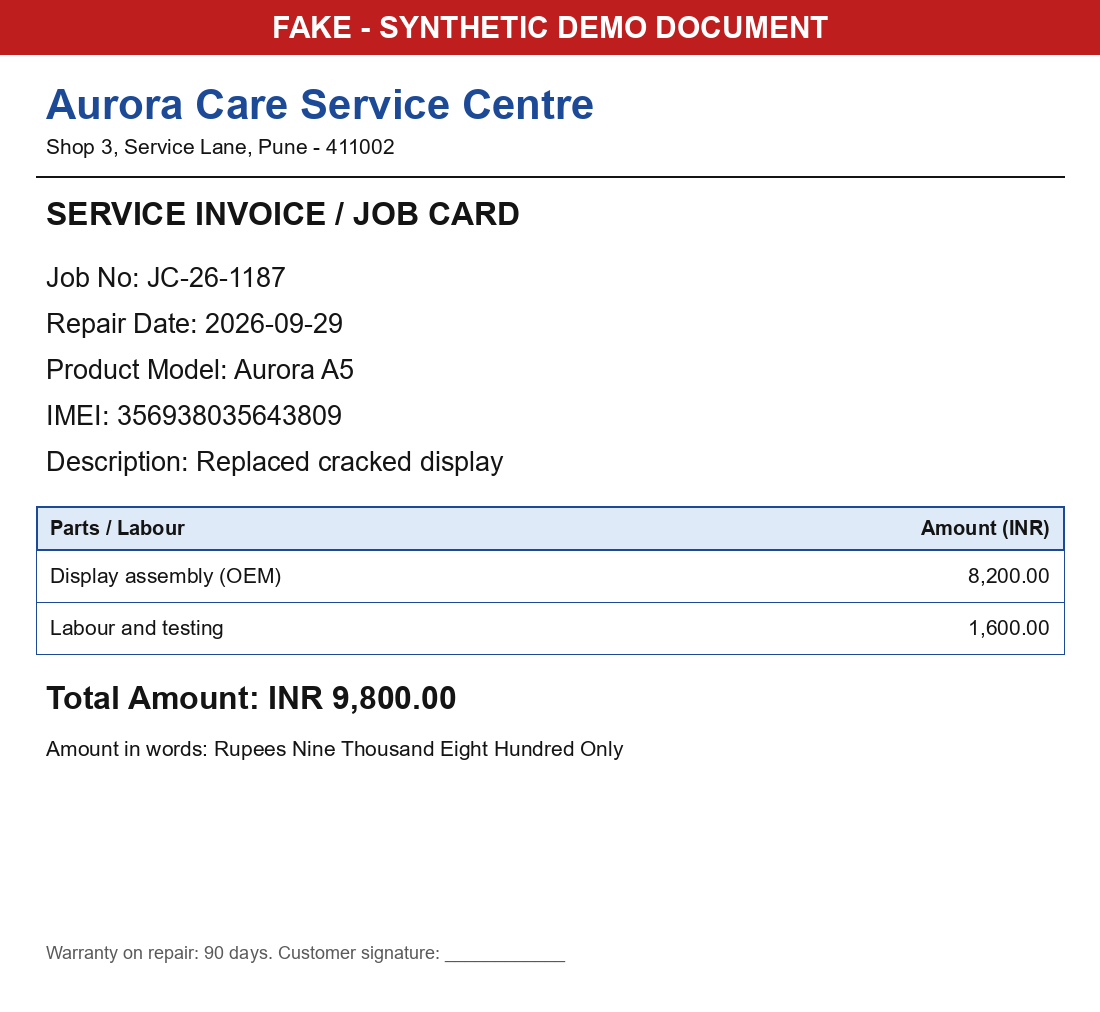
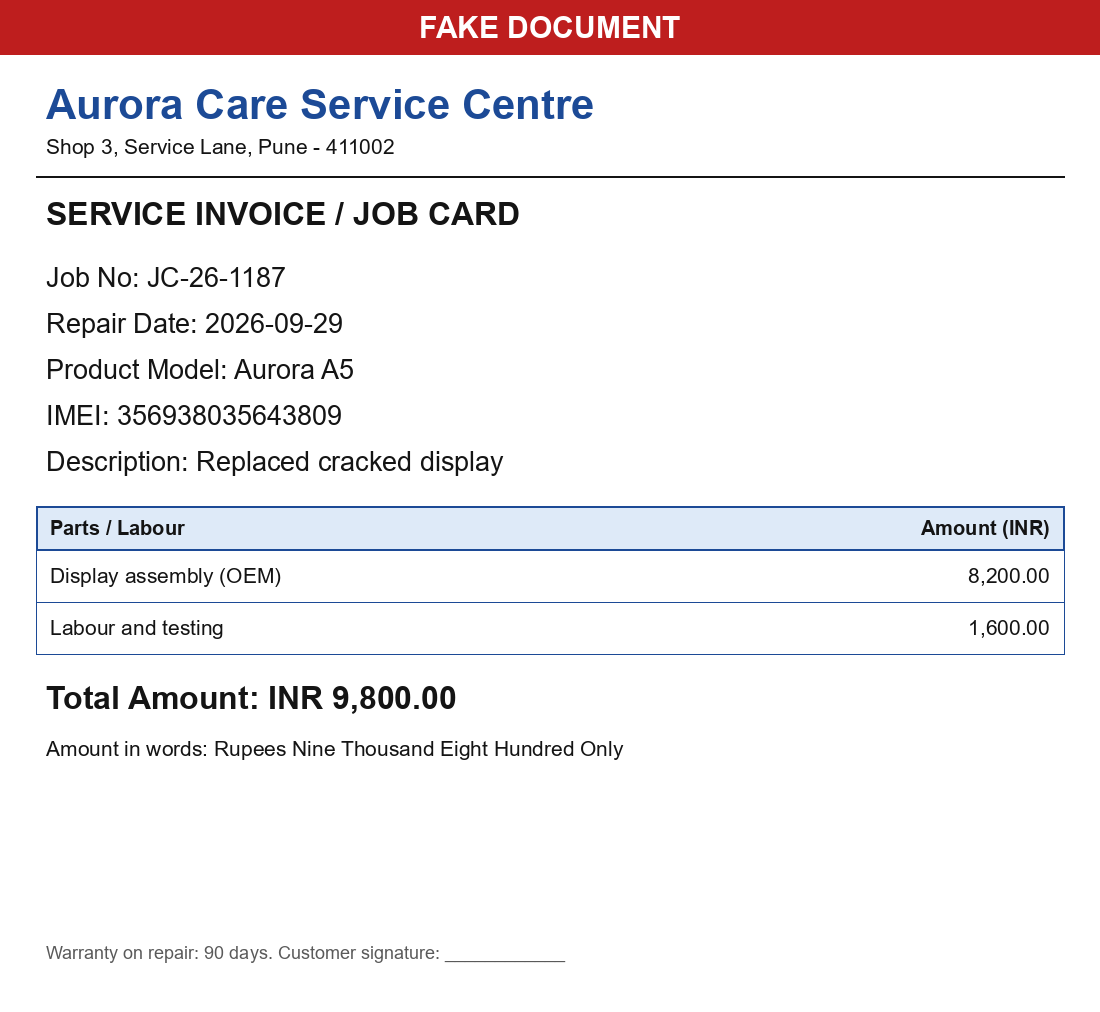
Remove demo/synthetic/sample wording from the product: UI, API text, claim numbers, generated documents

Changed region(s): [[0.2473, 0.0, 0.7418, 0.0613]]

diff --git a/frontend/src/pages/ClaimsQueue.tsx b/frontend/src/pages/ClaimsQueue.tsx
@@ -26,7 +26,6 @@ export default function ClaimsQueue() {
   const [group, setGroup] = useState('all')
   const [data, setData] = useState<Page | null>(null)
   const [err, setErr] = useState<string | null>(null)
-  const [busy, setBusy] = useState(false)
 
   const load = useCallback(async () => {
     setErr(null)
@@ -42,10 +41,6 @@ export default function ClaimsQueue() {
     (data?.items ?? []).filter((c) => g.id === 'all' || g.statuses.includes(c.status)).length])), [data])
   const rows = (data?.items ?? []).filter((c) => group === 'all' || GROUPS.find((g) => g.id === group)!.statuses.includes(c.status))
 
-  const seed = async () => {
-    setBusy(true)
-    try { await api.post('/demo/seed'); await load() } catch (e) { setErr((e as Error).message) } finally { setBusy(false) }
-  }
   const noClaimsAtAll = data && data.total === 0 && !q && !device
 
   return (
@@ -68,7 +63,6 @@ export default function ClaimsQueue() {
           </ol>
           <div className="row center-row">
             <Link className="btn primary lg" to="/claims/new">Create your first claim</Link>
-            <button className="btn lg" onClick={seed} disabled={busy}>{busy ? 'Adding…' : 'Or explore with 4 sample claims'}</button>
           </div>
         </div>
       )}
@@ -114,7 +108,6 @@ export default function ClaimsQueue() {
               </table>
             </div>
           )}
-          <p className="muted small foot-link">Just exploring? <button className="link" onClick={seed} disabled={busy}>{busy ? 'Adding…' : 'Add sample claims'}</button></p>
         </>
       )}
     </>

diff --git a/frontend/src/pages/DecisionPackPage.tsx b/frontend/src/pages/DecisionPackPage.tsx
@@ -74,7 +74,7 @@ export default function DecisionPackPage() {
       </section>
 
       <section className="card casefile">
-        <header className="file-head"><div><div className="eyebrow">Case file</div><h2>{c.claim_number} · {device}</h2></div><div className="muted small right">Generated {fmtDate(new Date().toISOString())}<br />Synthetic demo data</div></header>
+        <header className="file-head"><div><div className="eyebrow">Case file</div><h2>{c.claim_number} · {device}</h2></div><div className="muted small right">Generated {fmtDate(new Date().toISOString())}</div></header>
 
         <h3 className="file-h">Summary</h3>
         <dl className="kvs compact">
@@ -114,7 +114,7 @@ export default function DecisionPackPage() {
         <ol className="file-history">
           {d.timeline.map((t) => { const e = describeEvent(t); return <li key={t.id}><span className="muted small">{fmtDate(t.created_at)}</span> {e.text}{e.note ? ` — “${e.note}”` : ''}</li> })}
         </ol>
-        <p className="muted small fine">Decision support only: the system checks documents against the cover and cannot decide a claim. All data in this demo is synthetic.</p>
+        <p className="muted small fine">Decision support only: the system checks documents against the cover and cannot decide a claim.</p>
       </section>
     </div>
   )

diff --git a/frontend/src/claim/FindingsTab.tsx b/frontend/src/claim/FindingsTab.tsx
@@ -1,15 +1,15 @@
 import { useState } from 'react'
 import { downloadUrl, label } from '../api'
 import { Badge } from '../components/ui'
-import type { Evidence, Fact, Finding } from '../types'
+import type { ClaimDetail, Evidence, Fact, Finding } from '../types'
+import { friendly } from './pack'
 import { pretty } from './format'
 
-interface Props { findings: Finding[]; facts: Map<string, Fact>; evidence: Map<string, Evidence>; claimId: string }
+interface Props { detail: ClaimDetail; findings: Finding[]; facts: Map<string, Fact>; evidence: Map<string, Evidence>; claimId: string }
 
-// The backend appends source notes in brackets for traceability; the UI shows sources as links instead.
-const clean = (s: string) => s.replace(/\s*\((?:Source|No source fact)[^)]*\)\.?\s*$/, '')
-
-export default function FindingsTab({ findings, facts, evidence, claimId }: Props) {
+export default function FindingsTab({ detail, findings, facts, evidence, claimId }: Props) {
+  // Plain wording for users: no internal codes, policy IDs, or the bracketed source notes (sources are shown as links).
+  const clean = (s: string) => friendly(s, detail)
   const [tech, setTech] = useState(false)
   const [showOk, setShowOk] = useState(false)
   const visible = findings.filter((f) => f.result !== 'NOT_APPLICABLE' && f.rule_id !== 'SYS-002_AI_UNAVAILABLE')

diff --git a/frontend/src/pages/ClaimDetailPage.tsx b/frontend/src/pages/ClaimDetailPage.tsx
@@ -92,7 +92,7 @@ export default function ClaimDetailPage() {
           { id: 'history', label: 'History' },
         ]} />
         <div className="tab-panel" role="tabpanel">
-          {tab === 'findings' && (ev ? <FindingsTab findings={ev.findings} facts={facts} evidence={new Map(d.evidence.map((e) => [e.id, e]))} claimId={c.id} />
+          {tab === 'findings' && (ev ? <FindingsTab detail={d} findings={ev.findings} facts={facts} evidence={new Map(d.evidence.map((e) => [e.id, e]))} claimId={c.id} />
             : <p className="muted">Nothing to show yet. Add the customer's documents in the Documents tab and the review will run automatically.</p>)}
           {tab === 'documents' && <DocumentsTab claimId={c.id} slots={slots} evidence={d.evidence} busyType={busyType} onUpload={(f, t) => void upload(f, t)} />}
           {tab === 'details' && <DetailsTab d={d} />}

diff --git a/frontend/src/App.tsx b/frontend/src/App.tsx
@@ -15,8 +15,7 @@ const Logo = () => (
 
 const Footer = () => (
   <footer className="footer no-print">
-    Demo environment: all claims, people, devices and policies are synthetic. Recommendations are decision support for a human
-    reviewer and are not real insurance decisions.
+    VeriClaim recommendations are decision support for a human reviewer. The reviewer makes every final decision.
   </footer>
 )
 
@@ -30,7 +29,6 @@ export default function App() {
             <nav className="nav no-print">
               <Link to="/" className="brand"><Logo />VeriClaim</Link>
               <span className="tagline">Evidence-based claim review</span>
-              <span className="pill" title="All data in this environment is synthetic">Demo data</span>
             </nav>
             <main className="container">
               <Routes>

diff --git a/frontend/src/types.ts b/frontend/src/types.ts
@@ -39,7 +39,7 @@ export interface AuditEvent {
 export interface UploadReq { id: string; requested_items: RequestedItem[]; expires_at: string; revoked: boolean; remaining_uploads: number }
 export interface ClaimDetail {
   claim: Claim; latest_evaluation: Evaluation | null; evidence: Evidence[]; claim_record_facts: Fact[]
-  decisions: Decision[]; timeline: AuditEvent[]; upload_requests: UploadReq[]; synthetic_notice: string
+  decisions: Decision[]; timeline: AuditEvent[]; upload_requests: UploadReq[]
 }
 export interface Policy {
   id: string; name: string; product_type: string; claim_type: string; covered_event_types: string[]

diff --git a/frontend/src/pages/CustomerUpload.tsx b/frontend/src/pages/CustomerUpload.tsx
@@ -34,7 +34,7 @@ export default function CustomerUpload() {
             <Item key={i} item={it} token={token} disabled={info.remaining_uploads <= 0} done={done.includes(it.item_type + i)}
               onDone={() => { setDone([...done, it.item_type + i]); load() }} />
           ))}
-          <p className="muted small">Accepted: PDF, PNG, JPEG or text files up to 10 MB. Demo environment: please use fake or sample documents only.</p>
+          <p className="muted small">Accepted: PDF, PNG, JPEG or text files up to 10 MB.</p>
         </>
       )}
     </div>

diff --git a/frontend/src/claim/pack.ts b/frontend/src/claim/pack.ts
@@ -25,6 +25,7 @@ export function friendly(s: string, d: ClaimDetail): string {
   const cover = d.claim.policy_name ?? 'your cover'
   return clean(s)
     .replace(/(?:by |under )?synthetic policy\s+[A-Z0-9][A-Z0-9-]+/gi, `under your cover (${cover})`)
+    .replace(/\b(?:the|this) synthetic policy\b/gi, 'this cover') // text stored by earlier reviews
     .replace(/\b[A-Z]{2,}(?:_[A-Z]+)+\b/g, (t) => label(t).toLowerCase())
     .replace(/The reviewer-classified event (.+?) is /i, 'The reported cause of the incident ($1) is ')
 }

diff --git a/backend/app/demo/fixtures.py b/backend/app/demo/fixtures.py
@@ -1,4 +1,4 @@
-"""Generate synthetic demo documents. Every image is stamped FAKE - SYNTHETIC DEMO DOCUMENT.
+"""Generate fictional example documents. Every image is stamped FAKE DOCUMENT.
 
 Documents imitate real-world layouts (shop GST invoices with item tables and IMEI lines, marketplace invoices,
 service receipts) because the point of the demo is to show the reader coping with messy documents.
@@ -13,8 +13,8 @@ from PIL import Image, ImageDraw, ImageFont
 from app.config import ROOT
 
 FIXTURE_DIR = ROOT / "demo_fixtures"
-FIXTURE_VERSION = "3"  # bump to regenerate every file
-BANNER = "FAKE - SYNTHETIC DEMO DOCUMENT"
+FIXTURE_VERSION = "4"  # bump to regenerate every file
+BANNER = "FAKE DOCUMENT"
 INK, BLUE, RED, GREY = (20, 20, 20), (28, 74, 150), (190, 30, 30), (90, 90, 90)
 _REG = [r"C:\Windows\Fonts\arial.ttf", "/usr/share/fonts/truetype/dejavu/DejaVuSans.ttf"]
 _BOLD = [r"C:\Windows\Fonts\arialbd.ttf", "/usr/share/fonts/truetype/dejavu/DejaVuSans-Bold.ttf"]
@@ -88,7 +88,7 @@ class Item:
 def make_retail_invoice(path: Path, *, shop: str, tagline: str, address: tuple[str, str], phone: str, gstin: str,
                         inv_no: str, date_label: str, date_text: str, customer: str, place: str, items: list[Item],
                         words_label: str | None = "Total in words", subtotal_row: bool = False, gst_rate: int = 18,
-                        bank: tuple[str, str, str] = ("Demo Bank", "Test Branch", "0000000000")) -> Decimal:
+                        bank: tuple[str, str, str] = ("Unity Cooperative Bank", "Main Branch", "0000000000")) -> Decimal:
     """Shop-style GST tax invoice. Returns the grand total."""
     W, H = 1100, 1180 + 76 * len(items)
     img = Image.new("RGB", (W, H), "white")
@@ -237,18 +237,18 @@ def make_marketplace_invoice(path: Path) -> None:
     f, b = _font(15), _font(17)
     dr.text((470, 70), "Tax Invoice/Bill of Supply/Cash Memo", fill="black", font=b)
     dr.text((20, 120), "Sold By:", fill="black", font=b)
-    dr.text((20, 145), "Fake Mart Private Limited\nSample Street 1, Test City, 560001\nIN", fill="black", font=f)
+    dr.text((20, 145), "Greenfield Retail Private Limited\n14 Lake View Road, Bengaluru, 560034\nIN", fill="black", font=f)
     dr.text((560, 120), "Billing Address:", fill="black", font=b)
-    dr.text((560, 145), "Test Customer\n12 Demo Lane, Test City", fill="black", font=f)
+    dr.text((560, 145), "Rahul Menon\n12 Lake Lane, Bengaluru", fill="black", font=f)
     dr.text((20, 240), "GST Registration No: 29AAAAA0000A1Z5", fill="black", font=b)
     dr.text((20, 300), "Order Number: 000-1234567-7654321", fill="black", font=b)
     dr.text((20, 325), "Order Date: 30.03.2026", fill="black", font=b)
-    dr.text((470, 300), "Invoice Number: FAKE-7547", fill="black", font=b)
-    dr.text((470, 325), "Invoice Details: KA-FAKE-143189331", fill="black", font=b)
+    dr.text((470, 300), "Invoice Number: KA-7547", fill="black", font=b)
+    dr.text((470, 325), "Invoice Details: KA-INV-143189331", fill="black", font=b)
     dr.text((470, 350), "Invoice Date: 30.03.2026", fill="black", font=b)
     dr.rectangle([20, 400, 880, 560], outline="black")
     dr.text((28, 408), "Sl.   Description                                   Unit Price  Qty  Net Amount  Tax Rate  Tax Amount  Total Amount", fill="black", font=_font(12))
-    dr.text((28, 440), "1     Aurora A5 (Midnight/Black) | B0FAKE1234 ( Aurora A5 (Midnight/Black) )", fill="black", font=f)
+    dr.text((28, 440), "1     Aurora A5 (Midnight/Black) | B0XQ7R1234 ( Aurora A5 (Midnight/Black) )", fill="black", font=f)
     dr.text((60, 462), "HSN:8517", fill="black", font=f)
     dr.text((560, 462), "₹21,428.57   1   ₹21,428.57   12%   ₹2,571.43   ₹24,000.00", fill="black", font=_font(13))
     dr.text((28, 530), "TOTAL:                                                     ₹2,571.43    ₹24,000.00", fill="black", font=b)
@@ -273,17 +273,17 @@ def build_all(out: Path) -> None:
     # 001 laptop warranty, clean
     retail("cp001_invoice.png", shop="Digital Hub Electronics", tagline="Laptops, phones and accessories. Easy EMI available",
            address=("Shop 14, Tech Plaza, MG Road", "Bengaluru, Karnataka - 560001"), phone="080 1234 5678", gstin="29FAKE1001A1Z5",
-           inv_no="DH/2026/0412", date_label="Invoice Date", date_text="01-Jun-2026", customer="Aarav Demo", place="Karnataka (29)",
+           inv_no="DH/2026/0412", date_label="Invoice Date", date_text="01-Jun-2026", customer="Aarav Mehta", place="Karnataka (29)",
            items=[Item("Northstar N14 Laptop 16GB/512GB", D("65000.00"), "Serial No: NS-N14-000123", hsn="8471")])
     # 003 laptop warranty, accidental damage claim
     retail("cp003_invoice.png", shop="Metro Computers", tagline="Authorised retailer. Genuine products only",
            address=("12, Brigade Road", "Bengaluru, Karnataka - 560025"), phone="080 2222 3344", gstin="29FAKE1003C1Z9",
-           inv_no="MC/26/0387", date_label="Invoice Date", date_text="15-Mar-2026", customer="Meera Sample", place="Karnataka (29)",
+           inv_no="MC/26/0387", date_label="Invoice Date", date_text="15-Mar-2026", customer="Meera Iyer", place="Karnataka (29)",
            items=[Item("Northstar N14 Laptop 16GB/512GB", D("62000.00"), "Serial No: NS-N14-000789", hsn="8471")])
     # 004 phone insurance + repair receipt (date conflict)
     retail("cp004_invoice.png", shop="Shree Mobile Point", tagline="Get all your desired smart phones on huge discounts and easy EMI",
            address=("G/45, Vasant Lok Complex", "Pune, Maharashtra - 411001"), phone="020 4455 6677", gstin="27FAKE1004D1Z3",
-           inv_no="47", date_label="Invoice Date", date_text="01-Jul-2026", customer="Rohan Demo", place="Maharashtra (27)",
+           inv_no="47", date_label="Invoice Date", date_text="01-Jul-2026", customer="Rohan Kulkarni", place="Maharashtra (27)",
            items=[Item("Aurora A5 5G (8GB/128GB)", D("24000.00"), "IMEI 356938035643809"),
                   Item("20W USB-C Power Adapter", D("1500.00"), hsn="8504")])
     make_service_receipt(out / "cp004_repair_receipt.png", centre="Aurora Care Service Centre", address="Shop 3, Service Lane, Pune - 411002",
@@ -292,36 +292,36 @@ def build_all(out: Path) -> None:
     # 005 phone insurance, clean (approved by a reviewer in the seed)
     retail("cp005_invoice.png", shop="Zenith Telecom World", tagline="All brands, one roof. Exchange offers daily",
            address=("221, Linking Road", "Mumbai, Maharashtra - 400050"), phone="022 6677 8899", gstin="27FAKE1005E1Z1",
-           inv_no="ZT-8841", date_label="Invoice Date", date_text="18-May-2026", customer="Isha Sample", place="Maharashtra (27)",
+           inv_no="ZT-8841", date_label="Invoice Date", date_text="18-May-2026", customer="Isha Shah", place="Maharashtra (27)",
            items=[Item("Zenith Z9 Pro (12GB/256GB)", D("32999.00"), "IMEI 490154203237518")])
     # 006 phone warranty, IMEI differs (invoice shows ...418, claim says ...481)
     retail("cp006_invoice.png", shop="Lumen Mobiles", tagline="Smartphones | Tablets | Accessories",
            address=("7, Anna Salai", "Chennai, Tamil Nadu - 600002"), phone="044 3344 5566", gstin="33FAKE1006F1Z7",
-           inv_no="LM/0099", date_label="Invoice Date", date_text="20-Jan-2026", customer="Karthik Demo", place="Tamil Nadu (33)",
+           inv_no="LM/0099", date_label="Invoice Date", date_text="20-Jan-2026", customer="Karthik Raman", place="Tamil Nadu (33)",
            items=[Item("Lumen L3 (6GB/128GB)", D("18499.00"), "IMEI 352099001761418")], subtotal_row=True)
     # 007 laptop warranty, outside the 12 month window
     retail("cp007_invoice.png", shop="Capital Laptops", tagline="Specialists in business laptops",
            address=("Unit 5, Nehru Place", "New Delhi - 110019"), phone="011 5566 7788", gstin="07FAKE1007G1Z2",
-           inv_no="CL-5531", date_label="Date", date_text="10-Feb-2025", customer="Nikhil Sample", place="Delhi (07)",
+           inv_no="CL-5531", date_label="Date", date_text="10-Feb-2025", customer="Nikhil Bansal", place="Delhi (07)",
            items=[Item("Northstar N15 Laptop 16GB/1TB", D("84000.00"), "Serial No: NS-N15-000842", hsn="8471")])
     # 008 laptop insurance over the cap
     retail("cp008_invoice.png", shop="Digital Hub Electronics", tagline="Laptops, phones and accessories. Easy EMI available",
            address=("Shop 14, Tech Plaza, MG Road", "Bengaluru, Karnataka - 560001"), phone="080 1234 5678", gstin="29FAKE1001A1Z5",
-           inv_no="DH/2026/0129", date_label="Invoice Date", date_text="05-Feb-2026", customer="Divya Demo", place="Karnataka (29)",
+           inv_no="DH/2026/0129", date_label="Invoice Date", date_text="05-Feb-2026", customer="Divya Rao", place="Karnataka (29)",
            items=[Item("Northstar N14 Laptop 32GB/1TB", D("78000.00"), "Serial No: NS-N14-000555", hsn="8471")])
     # 009 phone insurance, purchase date written 06/04/2026 (ambiguous: 6 April or 4 June)
     retail("cp009_invoice.png", shop="Vega Mobile Hub", tagline="Best prices on the latest smartphones",
            address=("Shop 9, Station Road", "Trichy, Tamil Nadu - 620001"), phone="0431 223344", gstin="33FAKE1009H1Z4",
-           inv_no="122026/1266", date_label="Date", date_text="06/04/2026", customer="Mowni Sample", place="Tamil Nadu (33)",
+           inv_no="122026/1266", date_label="Date", date_text="06/04/2026", customer="Mowni Krishnan", place="Tamil Nadu (33)",
            items=[Item("Vega V1 (8GB/128GB)", D("21999.00"), "IMEI 861234050987654")], words_label="Amount in Words", subtotal_row=True)
     # 010 phone insurance, repair already done but no receipt yet
     retail("cp010_invoice.png", shop="Nimbus Phones", tagline="Authorised partner. Service and support",
            address=("14, Park Street", "Kolkata, West Bengal - 700016"), phone="033 7788 9900", gstin="19FAKE1010J1Z6",
-           inv_no="NP-3120", date_label="Invoice Date", date_text="10-Jun-2026", customer="Sneha Demo", place="West Bengal (19)",
+           inv_no="NP-3120", date_label="Invoice Date", date_text="10-Jun-2026", customer="Sneha Roy", place="West Bengal (19)",
            items=[Item("Nimbus N2 (8GB/256GB)", D("27999.00"), "IMEI 867530123456780")])
     make_marketplace_invoice(out / "complex_marketplace_invoice.png")
     (out / "cp002_statement.txt").write_text(
-        "FAKE - SYNTHETIC DEMO DOCUMENT\nCustomer Statement\nIncident Date: 2026-10-02\n"
+        "FAKE DOCUMENT\nCustomer Statement\nIncident Date: 2026-10-02\n"
         "Description: Laptop slipped from desk and the screen cracked.\n", encoding="utf-8")
 
 

diff --git a/backend/app/demo/seed.py b/backend/app/demo/seed.py
@@ -1,6 +1,6 @@
-"""Idempotent demo seed. Evidence goes through the real upload/extraction pipeline.
+"""Idempotent example-claim seed. Evidence goes through the real upload/extraction pipeline.
 
-Ten synthetic claims cover every recommendation and a realistic mix of queue states (new, waiting for customer,
+Ten example claims cover every recommendation and a realistic mix of queue states (new, waiting for customer,
 escalated, completed). Expected outcomes are asserted in tests/test_api.py.
 """
 from datetime import date, timedelta
@@ -24,58 +24,58 @@ PHONE_INS = dict(product_type="MOBILE_PHONE", claim_type="INSURANCE", policy_id=
 # `days_ago` staggers the submission time so the queue looks lived-in.
 # `decision` (optional) is applied after the first review, to show claims in later states.
 DEMO = [
-    dict(number="CP-DEMO-001", days_ago=1, expect=Recommendation.RECOMMENDED_APPROVAL, data=dict(
+    dict(number="CP-2026-1001", days_ago=1, expect=Recommendation.RECOMMENDED_APPROVAL, data=dict(
         LAPTOP_WAR, product_brand="Northstar", product_model="N14", device_identifier="NS-N14-000123",
         event_type="HARDWARE_FAILURE", incident_date=date(2026, 6, 20),
         damage_or_failure_description="Laptop stopped powering on after a firmware update."),
         files=[("cp001_invoice.png", E.PURCHASE_INVOICE)]),
-    dict(number="CP-DEMO-002", days_ago=1, expect=Recommendation.MORE_INFORMATION_REQUIRED, data=dict(
+    dict(number="CP-2026-1002", days_ago=1, expect=Recommendation.MORE_INFORMATION_REQUIRED, data=dict(
         LAPTOP_INS, product_brand="Northstar", product_model="N14", device_identifier="NS-N14-000456",
         event_type="ACCIDENTAL_DAMAGE", incident_date=date(2026, 10, 2), claimed_amount=Decimal("12500.00"),
         damage_or_failure_description="Screen cracked after slipping from a desk."),
         files=[("cp002_statement.txt", E.CUSTOMER_STATEMENT)]),
-    dict(number="CP-DEMO-003", days_ago=2, expect=Recommendation.RECOMMENDED_REJECTION, data=dict(
+    dict(number="CP-2026-1003", days_ago=2, expect=Recommendation.RECOMMENDED_REJECTION, data=dict(
         LAPTOP_WAR, product_brand="Northstar", product_model="N14", device_identifier="NS-N14-000789",
         event_type="ACCIDENTAL_DAMAGE", incident_date=date(2026, 8, 10),
         damage_or_failure_description="Laptop was dropped and the chassis and screen were damaged."),
         files=[("cp003_invoice.png", E.PURCHASE_INVOICE)]),
-    dict(number="CP-DEMO-004", days_ago=2, expect=Recommendation.HUMAN_REVIEW_REQUIRED, data=dict(
+    dict(number="CP-2026-1004", days_ago=2, expect=Recommendation.HUMAN_REVIEW_REQUIRED, data=dict(
         PHONE_INS, product_brand="Aurora", product_model="A5", device_identifier="356938035643809",
         event_type="ACCIDENTAL_DAMAGE", incident_date=date(2026, 10, 2), claimed_amount=Decimal("9800.00"),
         repair_already_performed=True, damage_or_failure_description="Phone display cracked after a fall."),
         files=[("cp004_invoice.png", E.PURCHASE_INVOICE), ("cp004_repair_receipt.png", E.REPAIR_RECEIPT)]),
     # Clean insurance claim with a payout estimate; already approved so the "Completed" group is populated.
-    dict(number="CP-DEMO-005", days_ago=6, expect=Recommendation.RECOMMENDED_APPROVAL, decision=(ReviewerAction.APPROVE, "Priya Nair"), data=dict(
+    dict(number="CP-2026-1005", days_ago=6, expect=Recommendation.RECOMMENDED_APPROVAL, decision=(ReviewerAction.APPROVE, "Priya Nair"), data=dict(
         PHONE_INS, product_brand="Zenith", product_model="Z9 Pro", device_identifier="490154203237518",
         event_type="LIQUID_DAMAGE", incident_date=date(2026, 9, 2), claimed_amount=Decimal("11500.00"),
         damage_or_failure_description="Phone fell into water; screen and speaker stopped working."),
         files=[("cp005_invoice.png", E.PURCHASE_INVOICE)]),
     # IMEI on the invoice differs from the claim by two swapped digits: a clarification, not an accusation.
-    dict(number="CP-DEMO-006", days_ago=3, expect=Recommendation.HUMAN_REVIEW_REQUIRED, data=dict(
+    dict(number="CP-2026-1006", days_ago=3, expect=Recommendation.HUMAN_REVIEW_REQUIRED, data=dict(
         PHONE_WAR, product_brand="Lumen", product_model="L3", device_identifier="352099001761481",
         event_type="HARDWARE_FAILURE", incident_date=date(2026, 8, 14),
         damage_or_failure_description="Phone restarts repeatedly and the battery drains in an hour."),
         files=[("cp006_invoice.png", E.PURCHASE_INVOICE)]),
     # Hardware failure is covered, but the incident is far outside the 12 month warranty.
-    dict(number="CP-DEMO-007", days_ago=4, expect=Recommendation.RECOMMENDED_REJECTION, data=dict(
+    dict(number="CP-2026-1007", days_ago=4, expect=Recommendation.RECOMMENDED_REJECTION, data=dict(
         LAPTOP_WAR, product_brand="Northstar", product_model="N15", device_identifier="NS-N15-000842",
         event_type="HARDWARE_FAILURE", incident_date=date(2026, 9, 20),
         damage_or_failure_description="Keyboard stopped responding."),
         files=[("cp007_invoice.png", E.PURCHASE_INVOICE)]),
     # Claim exceeds the maximum payable amount: partial eligibility is a judgement call, so it is escalated.
-    dict(number="CP-DEMO-008", days_ago=5, expect=Recommendation.HUMAN_REVIEW_REQUIRED, decision=(ReviewerAction.ESCALATE, "Priya Nair"), data=dict(
+    dict(number="CP-2026-1008", days_ago=5, expect=Recommendation.HUMAN_REVIEW_REQUIRED, decision=(ReviewerAction.ESCALATE, "Priya Nair"), data=dict(
         LAPTOP_INS, product_brand="Northstar", product_model="N14", device_identifier="NS-N14-000555",
         event_type="LIQUID_DAMAGE", incident_date=date(2026, 9, 25), claimed_amount=Decimal("62000.00"),
         damage_or_failure_description="Coffee spilled on the keyboard; motherboard replacement quoted."),
         files=[("cp008_invoice.png", E.PURCHASE_INVOICE)]),
     # Purchase date printed as 06/04/2026: could be 6 April or 4 June, so the system refuses to guess.
-    dict(number="CP-DEMO-009", days_ago=0, expect=Recommendation.MORE_INFORMATION_REQUIRED, data=dict(
+    dict(number="CP-2026-1009", days_ago=0, expect=Recommendation.MORE_INFORMATION_REQUIRED, data=dict(
         PHONE_INS, product_brand="Vega", product_model="V1", device_identifier="861234050987654",
         event_type="ACCIDENTAL_DAMAGE", incident_date=date(2026, 9, 28), claimed_amount=Decimal("7500.00"),
         damage_or_failure_description="Phone slipped from a pocket onto concrete."),
         files=[("cp009_invoice.png", E.PURCHASE_INVOICE)]),
     # Repair already carried out but no receipt yet; the reviewer has asked the customer, so it is "waiting".
-    dict(number="CP-DEMO-010", days_ago=3, expect=Recommendation.MORE_INFORMATION_REQUIRED, decision=(ReviewerAction.REQUEST_INFORMATION, "Priya Nair"), data=dict(
+    dict(number="CP-2026-1010", days_ago=3, expect=Recommendation.MORE_INFORMATION_REQUIRED, decision=(ReviewerAction.REQUEST_INFORMATION, "Priya Nair"), data=dict(
         PHONE_INS, product_brand="Nimbus", product_model="N2", device_identifier="867530123456780",
         event_type="ACCIDENTAL_DAMAGE", incident_date=date(2026, 9, 15), claimed_amount=Decimal("6200.00"),
         repair_already_performed=True, damage_or_failure_description="Screen replaced at a local shop after a fall."),
@@ -91,7 +91,7 @@ def _apply_decision(db: Session, claim: Claim, action: ReviewerAction, who: str)
 
 
 def seed_demo(db: Session) -> list[str]:
-    """Create demo claims that don't exist yet. Returns the numbers created."""
+    """Create the example claims that don't exist yet. Returns the numbers created."""
     seed_policies(db)
     fixtures = ensure_fixtures()
     created = []

diff --git a/backend/tests/test_api.py b/backend/tests/test_api.py
@@ -274,7 +274,7 @@ def test_demo_scenarios_with_real_ocr(client, db):
     assert {n: i["latest_recommendation"] for n, i in items.items()} == {s["number"]: s["expect"].value for s in DEMO}
     # and the queue shows a realistic spread of states
     assert {n: i["status"] for n, i in items.items() if i["status"] != "AWAITING_REVIEW"} == {
-        "CP-DEMO-005": "APPROVED", "CP-DEMO-008": "ESCALATED", "CP-DEMO-010": "AWAITING_CUSTOMER"}
+        "CP-2026-1005": "APPROVED", "CP-2026-1008": "ESCALATED", "CP-2026-1010": "AWAITING_CUSTOMER"}
     assert all(i["policy_name"] for i in items.values())
 
     def finding(number, prefix):
@@ -282,14 +282,14 @@ def test_demo_scenarios_with_real_ocr(client, db):
         return next(f for f in d["latest_evaluation"]["findings"] if f["rule_id"].startswith(prefix))
 
     # the reasons are the intended ones, not OCR accidents
-    f4 = finding("CP-DEMO-004", "CON-005")
+    f4 = finding("CP-2026-1004", "CON-005")
     assert f4["result"] == "FAIL" and f4["evidence_ids"] and f4["source_fact_ids"] and "fraud" in f4["explanation"].lower()
-    assert finding("CP-DEMO-006", "CON-002")["result"] == "FAIL"                       # IMEI digits swapped
-    assert finding("CP-DEMO-007", "POL-003")["result"] == "FAIL"                       # outside the 12 months
-    assert finding("CP-DEMO-008", "POL-007")["result"] == "FAIL"                       # above the cap
-    assert "can be read two ways" in finding("CP-DEMO-009", "POL-003")["explanation"]  # 06/04/2026 never guessed
-    assert finding("CP-DEMO-010", "EV-003")["result"] == "FAIL"                        # repair receipt missing
+    assert finding("CP-2026-1006", "CON-002")["result"] == "FAIL"                       # IMEI digits swapped
+    assert finding("CP-2026-1007", "POL-003")["result"] == "FAIL"                       # outside the 12 months
+    assert finding("CP-2026-1008", "POL-007")["result"] == "FAIL"                       # above the cap
+    assert "can be read two ways" in finding("CP-2026-1009", "POL-003")["explanation"]  # 06/04/2026 never guessed
+    assert finding("CP-2026-1010", "EV-003")["result"] == "FAIL"                        # repair receipt missing
     # clean claims stay clean: no open findings that matter
-    for n in ("CP-DEMO-001", "CP-DEMO-005"):
+    for n in ("CP-2026-1001", "CP-2026-1005"):
         d = client.get(f"{H}/claims/{items[n]['id']}").json()
         assert not [f for f in d["latest_evaluation"]["findings"] if f["result"] in ("FAIL", "INDETERMINATE") and f["category"] != "NOTE"], n

diff --git a/backend/app/rules/engine.py b/backend/app/rules/engine.py
@@ -253,7 +253,7 @@ def pol_003(c: Ctx):
                     C.CONFLICT, facts=[inc, pur], reason_code="INCIDENT_BEFORE_PURCHASE", recommended_action="Clarify dates with the customer.")
     if days > c.policy.coverage_days:
         return _out(rid, R.FAIL, S.HIGH, "Outside coverage window",
-                    f"Incident was {days} days after purchase; the synthetic policy covers {c.policy.coverage_days} days.",
+                    f"Incident was {days} days after purchase; this cover allows {c.policy.coverage_days} days.",
                     C.REJECTION_CANDIDATE, facts=[inc, pur], reason_code="OUTSIDE_COVERAGE_WINDOW")
     return _out(rid, R.PASS, S.INFO, t, f"Incident was {days} days after purchase (limit {c.policy.coverage_days}).", facts=[inc, pur])
 
@@ -281,7 +281,7 @@ def pol_005(c: Ctx):
                     "The event type is unclassified; a reviewer must classify it before coverage can be decided.", C.AMBIGUOUS,
                     reason_code="EVENT_UNCLASSIFIED", recommended_action="Select the event type.")
     if et in c.policy.covered:
-        return _out(rid, R.PASS, S.INFO, t, f"{et} is a covered event under this synthetic policy.", facts=[c.claim_fact(FieldName.EVENT_DESCRIPTION)])
+        return _out(rid, R.PASS, S.INFO, t, f"{et} is a covered event under this cover.", facts=[c.claim_fact(FieldName.EVENT_DESCRIPTION)])
     return _out(rid, R.FAIL, S.MEDIUM, "Event not listed as covered",
                 f"{et} is neither covered nor explicitly excluded by this policy; reviewer judgment needed.", C.AMBIGUOUS,
                 facts=[c.claim_fact(FieldName.EVENT_DESCRIPTION)], reason_code="EVENT_NOT_COVERED")
@@ -292,7 +292,7 @@ def pol_006(c: Ctx):
     et = c.claim.event_type
     if et and et in c.policy.excluded:
         return _out(rid, R.FAIL, S.HIGH, "Event explicitly excluded by policy",
-                    f"The reviewer-classified event {et} is explicitly excluded by synthetic policy {c.policy.id}.",
+                    f"The reviewer-classified event {et} is explicitly excluded under this cover.",
                     C.REJECTION_CANDIDATE, facts=[c.claim_fact(FieldName.EVENT_DESCRIPTION)],
                     reason_code="EVENT_EXCLUDED", recommended_action="Confirm classification, then reject citing the policy exclusion.")
     if et and et != "OTHER":
